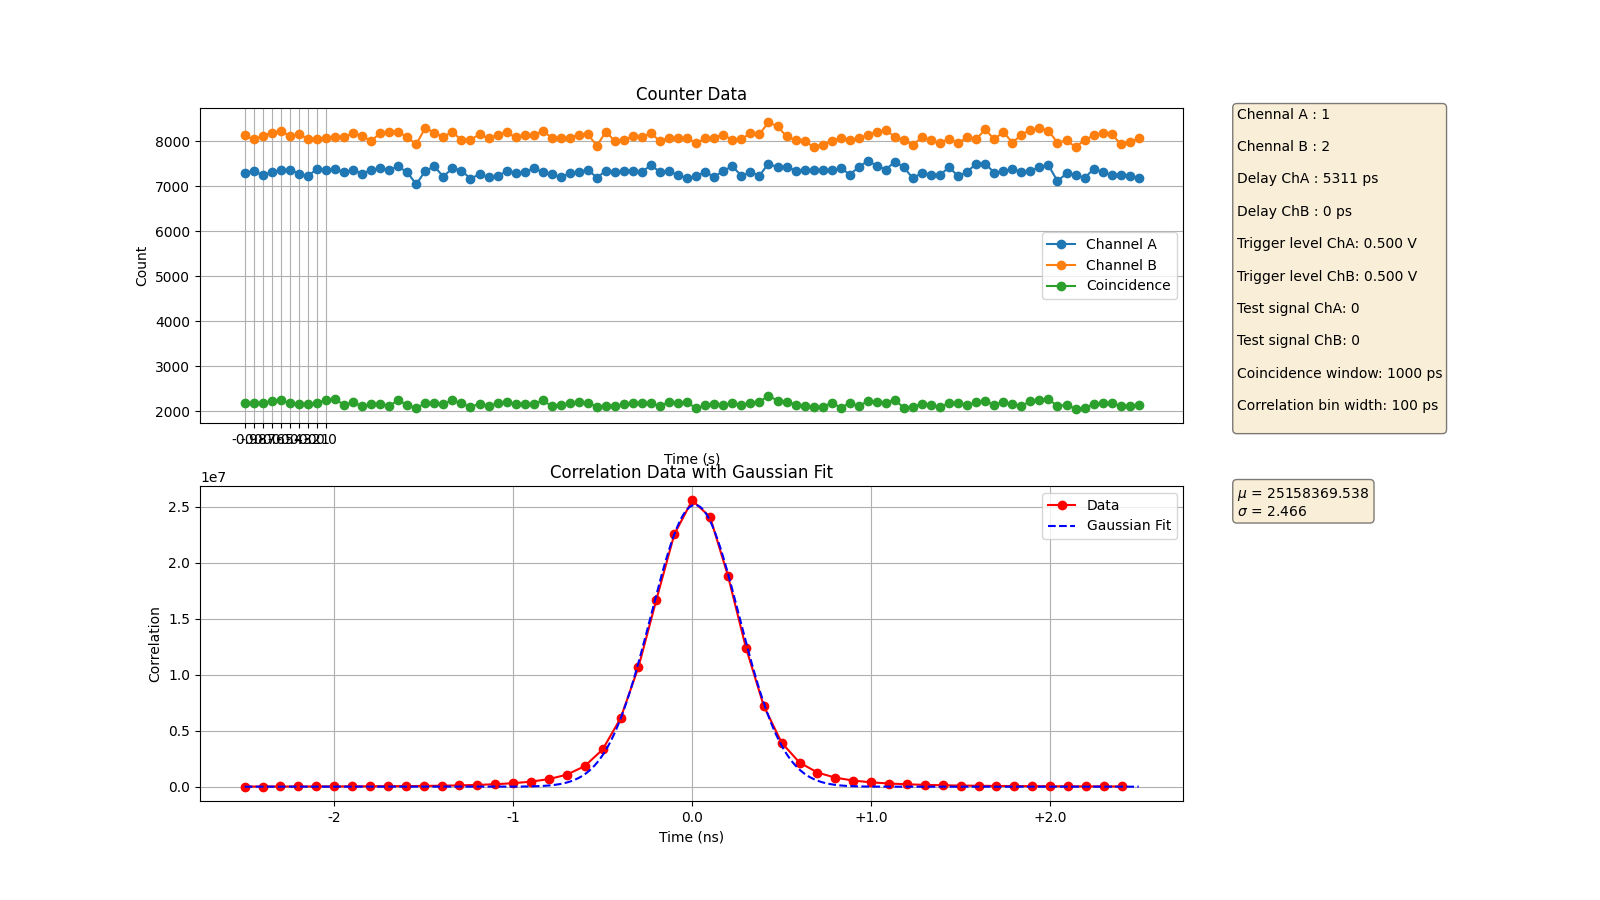
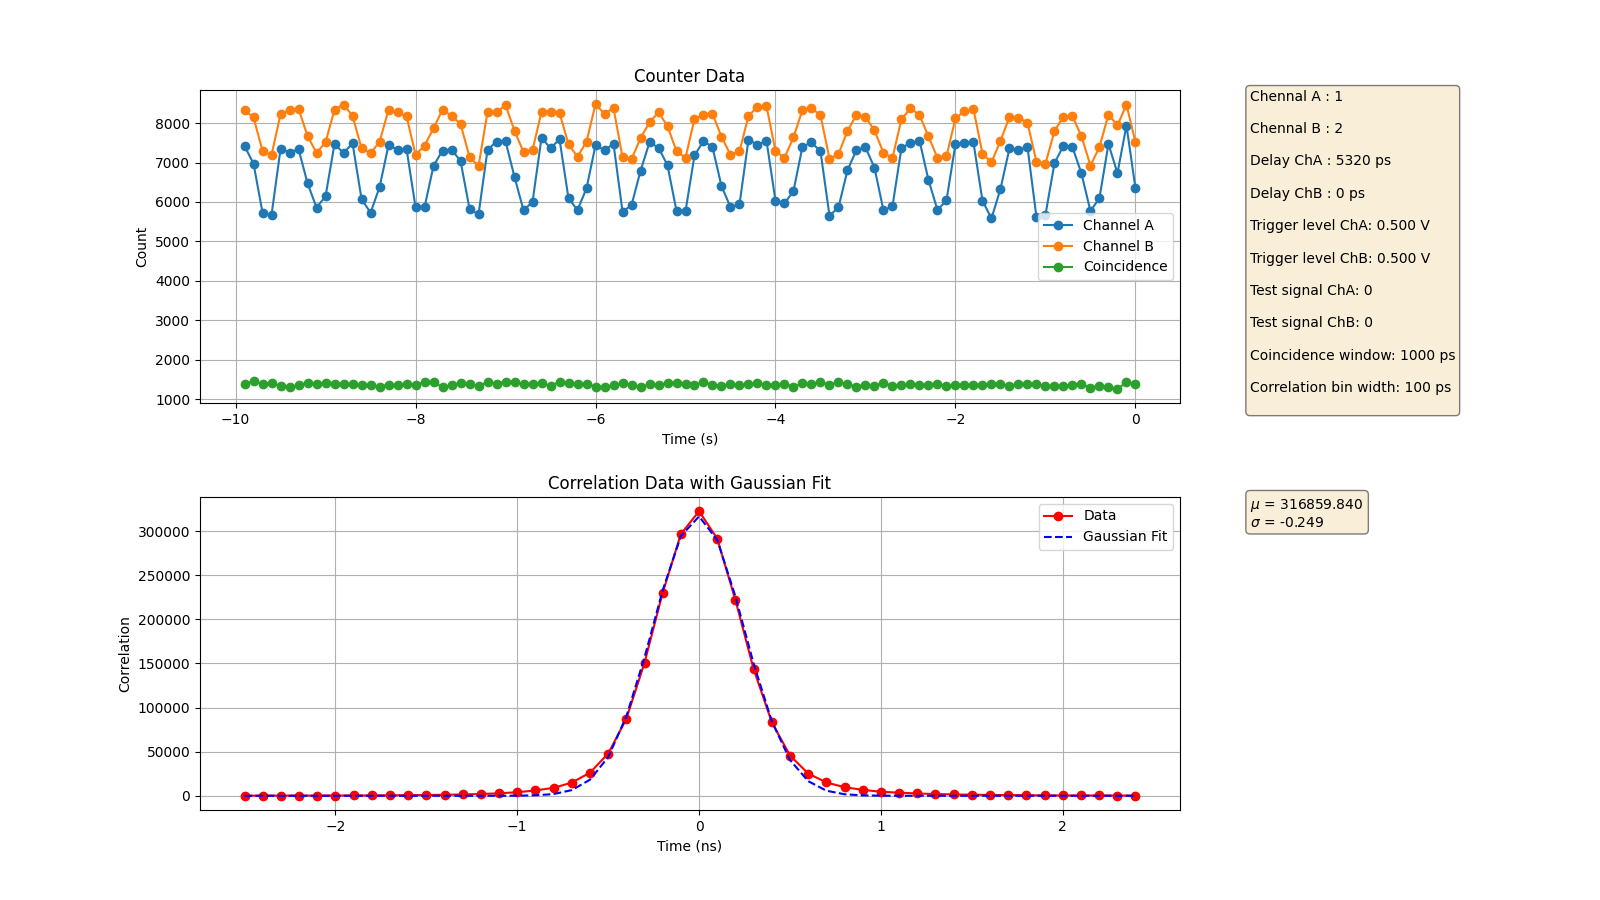
figure refactoring

diff --git a/TimeTagger/data_to_fig.py b/TimeTagger/data_to_fig.py
@@ -6,7 +6,8 @@ from scipy.optimize import curve_fit
 Channel_name = ['Channel A', 'Channel B', 'Coincidence']
 resolution = 20
 props = dict(boxstyle='round', facecolor='wheat', alpha=0.5)
-count_delay = 0.1
+bin_width = 0.1
+n = 2
 
 
 def gaussian(x, a, mu, sigma):
@@ -14,7 +15,7 @@ def gaussian(x, a, mu, sigma):
 
 
 # 파일 경로
-file_path = "CoincidenceExampleData_28.txt"
+file_path = "CoincidenceExampleData_ERROR.txt"
 fig = plt.figure(num=1, figsize=(16, 9))
 
 # 데이터 읽기
@@ -30,7 +31,7 @@ if counter_match:
     counter_data = np.array(eval(counter_match.group(1)))
 else:
     raise ValueError("Counter data not found in file.")
-
+print(np.shape(counter_data)[1])
 # Correlation data 추출
 corr_match = re.search(r"Correlation data:\s*array\((\[.*?])\)", content, re.DOTALL)
 if corr_match:
@@ -39,7 +40,7 @@ else:
     raise ValueError("Correlation data not found in file.")
 
 # X 데이터 생성
-xdata = np.arange(len(correlation_data))  # NumPy 배열로 변환
+xdata = (np.arange(len(correlation_data)) - int(len(correlation_data)/2))/10 # NumPy 배열로 변환
 
 # 초기 추정값 (A, mu, sigma)
 p0 = [max(correlation_data), np.argmax(correlation_data), 10]  # A는 최대값, mu는 최댓값 위치
@@ -50,23 +51,24 @@ coeff, var_matrix = curve_fit(f=gaussian, xdata=xdata, ydata=correlation_data, p
 # Counter Data Plot
 ax1 = fig.add_subplot(2, 5, (1, 4))
 for i, row in enumerate(counter_data):
-    ax1.plot(row, marker='o', linestyle='-', label=Channel_name[i])
-plt.xticks(ticks=[0, 1, 2, 3, 4, 5, 6, 7, 8, 9], labels=(-0.9, -0.8, -0.7, -0.6, -0.5, -0.4, -0.3, -0.2, -0.1, "0.0"))
+    ax1.plot((-1*np.arange(len(row)))/(bin_width*np.shape(counter_data)[1]), row, 'o-')
+#plt.xticks(ticks=[0, 1, 2, 3, 4, 5, 6, 7, 8, 9], labels=(-0.9, -0.8, -0.7, -0.6, -0.5, -0.4, -0.3, -0.2, -0.1, "0.0"))
 ax1.set_xlabel('Time (s)')
 ax1.set_ylabel('Count')
 ax1.set_title('Counter Data')
-ax1.legend()
+ax1.legend((Channel_name[0], Channel_name[1], Channel_name[2]), loc=7)
 ax1.grid(True)
+fig.subplots_adjust(left=0.125, bottom=0.1, right=0.9, top=0.9, wspace=0.3, hspace=0.3)
 
 # Correlation Data Plot
 ax2 = fig.add_subplot(2, 5, (6, 9))
 
 ax2.plot(xdata, correlation_data, marker='o', linestyle='-', color='r', label="Data")
 
-gauss_xdata = np.array([idx/resolution for idx in range(len(correlation_data)*resolution)])
-fitted_y = gaussian(gauss_xdata, *coeff)
-ax2.plot(gauss_xdata, fitted_y, linestyle="--", color="blue", label="Gaussian Fit")
-plt.xticks(ticks=[5, 15, 25, 35, 45], labels=(-2, -1, "0.0", "+1.0", "+2.0"))
+#gauss_xdata = np.array([idx/resolution for idx in range(len(correlation_data)*resolution)])
+fitted_y = gaussian(xdata, *coeff)
+ax2.plot(xdata, fitted_y, linestyle="--", color="blue", label="Gaussian Fit")
+#plt.xticks(ticks=[5, 15, 25, 35, 45], labels=(-2, -1, "0.0", "+1.0", "+2.0"))
 ax2.set_xlabel('Time (ns)')
 ax2.set_ylabel('Correlation')
 ax2.set_title('Correlation Data with Gaussian Fit')
